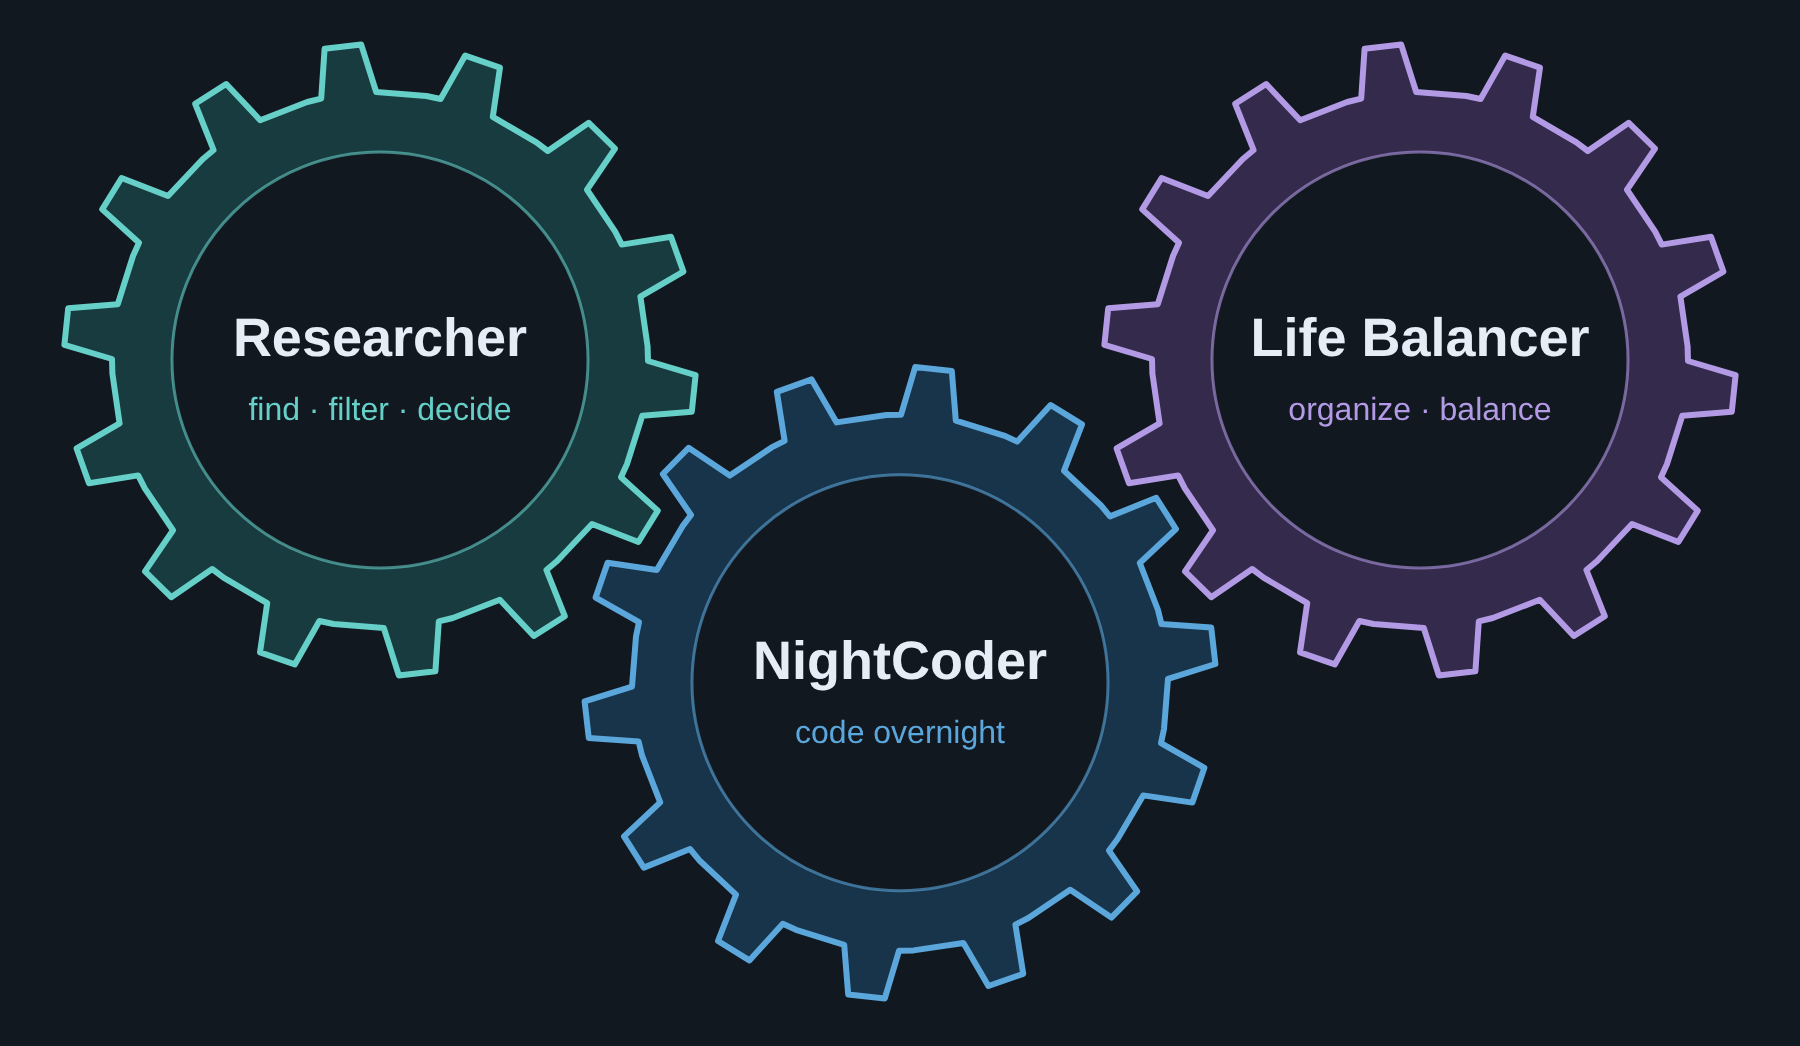
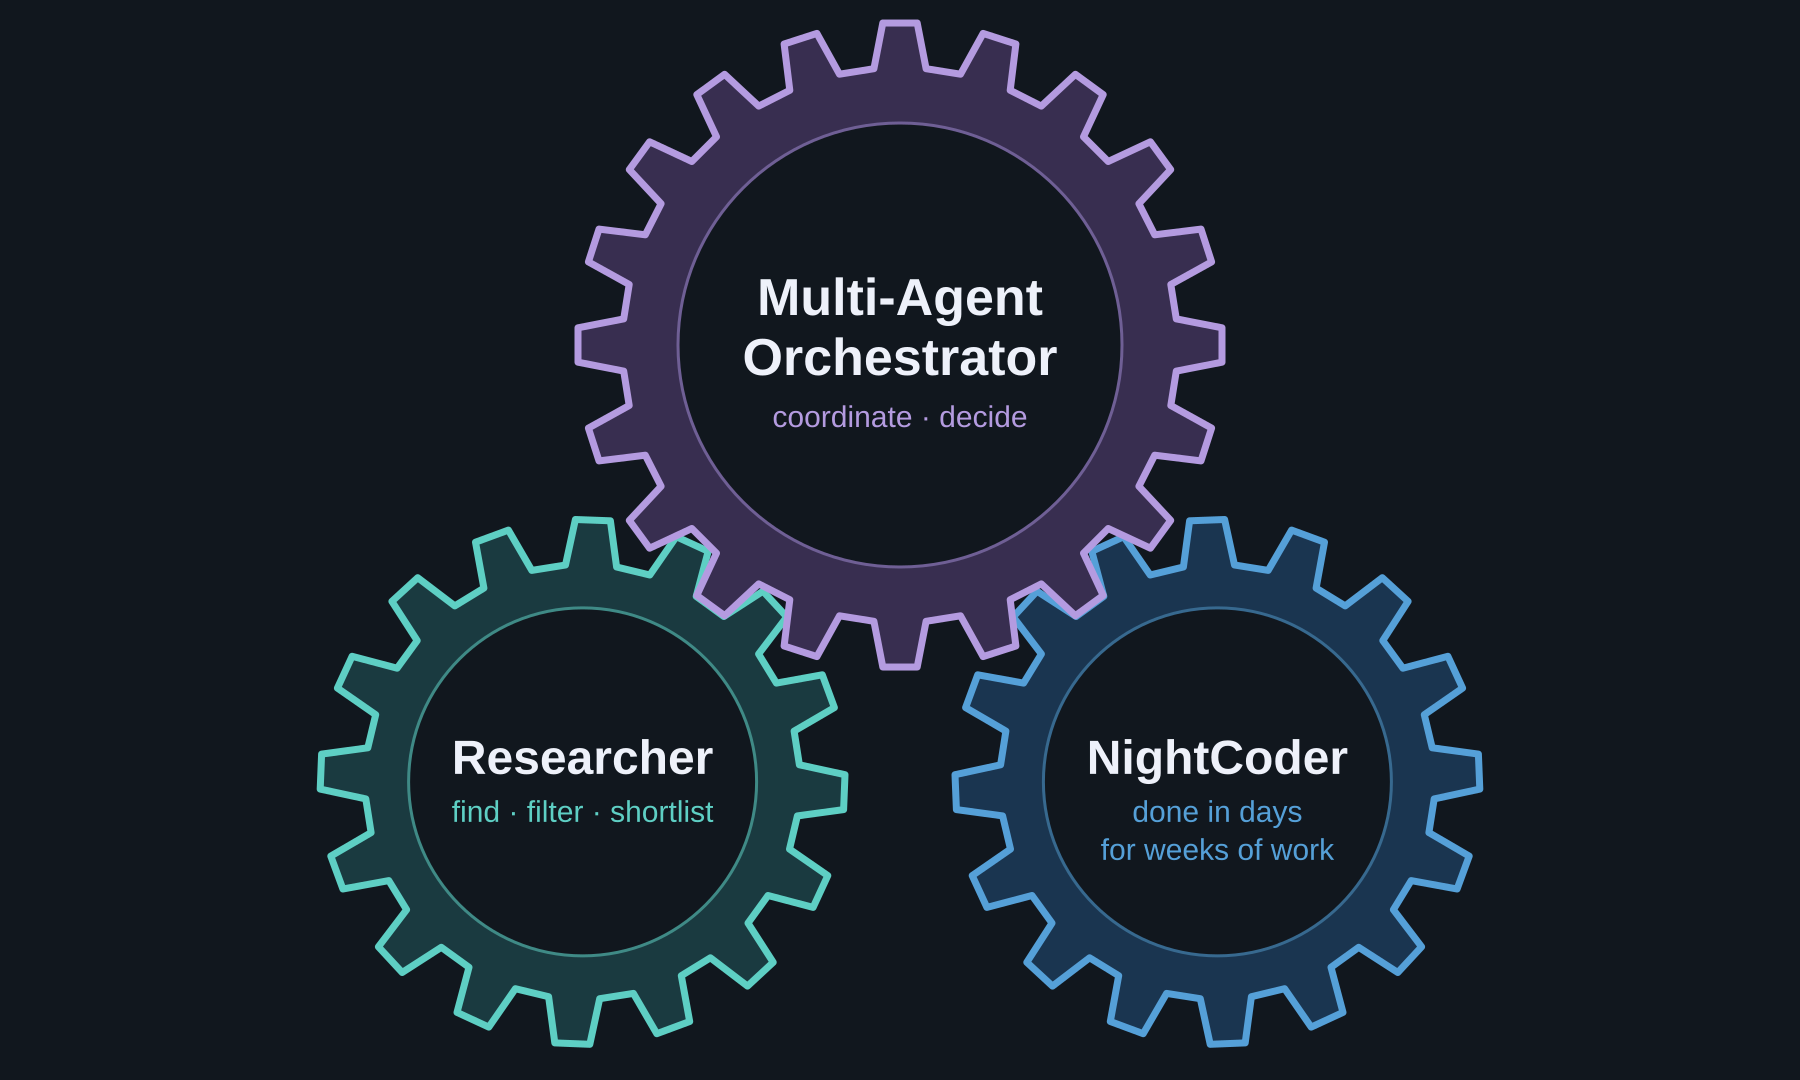
Gears: Multi-Agent Orchestrator at the centre, new subtitles
Claude-Session: https://claude.ai/code/session_01UJTvagnTwyM2rS848ETHgX

diff --git a/README.md b/README.md
@@ -3,7 +3,7 @@
 <p align="center"><b>Run three multi-agent systems as one.</b><br>
 The goal is simple: spend less time on mechanical work and more on research, strategic planning, decisions and action, across a wide and deep range of areas. I run these systems on myself first and measure what they change before offering them to anyone else.</p>
 
-[![Three agents that turn together: Researcher, NightCoder, Life Balancer](assets/diagrams/three-gears-dark.png)](assets/diagrams/three-gears-dark.svg)
+[![Three agents that turn together: Multi-Agent Orchestrator, Researcher, NightCoder](assets/diagrams/three-gears-dark.png)](assets/diagrams/three-gears-dark.svg)
 
 | Year | Goal |
 | --- | --- |
